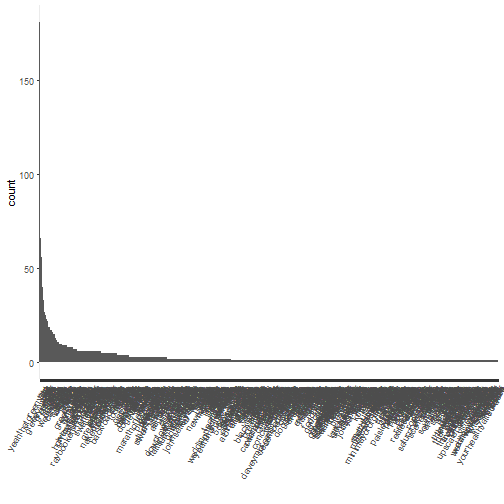
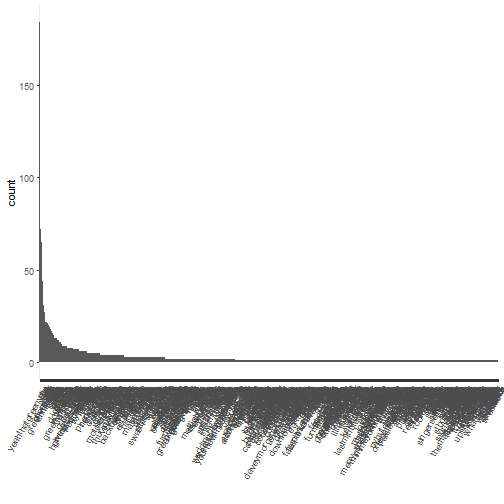
recompile twitter post with cache=FALSE to try to avoid image collision

diff --git a/_posts/2016-12-21-r-twitter.md b/_posts/2016-12-21-r-twitter.md
@@ -59,31 +59,31 @@ head(gvl_twitter_df)
 
 
 {% highlight text %}
-                                                                                                                                            text
-1 RT @TEN_GOP: Hillary voter: set the #Greenville black church on fire and spray painted 'Vote Trump'. \n\nTrump supporters: raised $180K to reÂ…
-2                                                                            Aviation MX Jobs Sheet Metal-LHM-GREENVILLE https://t.co/0B104F2S1f
-3     Why are people from all over the world moving to Greenville, SC? https://t.co/Ck7FLxHiA2 Orion Realty 864-631-2663 https://t.co/SqFbO5rO5M
-4                     @gibbshundred chillin' in the Wisconsin refrigerator #beerforthought #beer @ Greenville, Wisconsin https://t.co/Vz0fey2pgO
-  favorited favoriteCount    replyToSN             created truncated
-1     FALSE             0         <NA> 2016-12-22 22:01:13     FALSE
-2     FALSE             0         <NA> 2016-12-22 22:00:57     FALSE
-3     FALSE             0         <NA> 2016-12-22 22:00:43     FALSE
-4     FALSE             0 GibbsHundred 2016-12-22 22:00:34     FALSE
-  replyToSID                 id replyToUID
-1       <NA> 812055418193186816       <NA>
-2       <NA> 812055350438428672       <NA>
-3       <NA> 812055292322181120       <NA>
-4       <NA> 812055254678245377 2225686310
-                                                                        statusSource
-1 <a href="http://twitter.com/download/iphone" rel="nofollow">Twitter for iPhone</a>
-2                    <a href="http://www.hootsuite.com" rel="nofollow">Hootsuite</a>
-3              <a href="http://www.facebook.com/twitter" rel="nofollow">Facebook</a>
-4                        <a href="http://instagram.com" rel="nofollow">Instagram</a>
-      screenName retweetCount isRetweet retweeted longitude latitude
-1  lisalicious12         2593      TRUE     FALSE      <NA>     <NA>
-2 AviationMXjobs            0     FALSE     FALSE      <NA>     <NA>
-3      kenpujdak            0     FALSE     FALSE      <NA>     <NA>
-4       kev_tosh            0     FALSE     FALSE      <NA>     <NA>
+                                                                                                                                                                   text
+1                                  Can you recommend anyone for this #job? Delivery Driver - https://t.co/DRHtAzXQYO #Transportation #Greenville, NC #Hiring #CareerArc
+2                                                        @marcelllamariee @ashlynmariieee shoulda went to Greenville I would have went and we would have fucked shit up
+3                                                                                          I guess I'll go to Greenville today <ed><U+00A0><U+00BD><ed><U+00B8><U+0098>
+4                          RT @sportsguymarv: In a loss to Cook Co., Brittany Davis from Greenville High scrambled a Triple-Double. 52 12 10. || #A1Skills #GHSA #High<U+0085>
+  favorited favoriteCount       replyToSN             created truncated
+1     FALSE             0            <NA> 2016-12-23 17:55:48     FALSE
+2     FALSE             0 marcelllamariee 2016-12-23 17:54:59     FALSE
+3     FALSE             0            <NA> 2016-12-23 17:54:24     FALSE
+4     FALSE             0            <NA> 2016-12-23 17:53:34     FALSE
+          replyToSID                 id         replyToUID
+1               <NA> 812356044567375872               <NA>
+2 812292443509026816 812355837901553664 777670063751135233
+3               <NA> 812355693948837888               <NA>
+4               <NA> 812355480425263104               <NA>
+                                                                          statusSource
+1                  <a href="http://www.tweetmyjobs.com" rel="nofollow">TweetMyJOBS</a>
+2   <a href="http://twitter.com/download/iphone" rel="nofollow">Twitter for iPhone</a>
+3   <a href="http://twitter.com/download/iphone" rel="nofollow">Twitter for iPhone</a>
+4 <a href="http://twitter.com/download/android" rel="nofollow">Twitter for Android</a>
+     screenName retweetCount isRetweet retweeted   longitude   latitude
+1 tmj_NC_transp            0     FALSE     FALSE -77.3936674 35.6096532
+2  s_danielss16            0     FALSE     FALSE        <NA>       <NA>
+3 __GorgeousNiq            0     FALSE     FALSE        <NA>       <NA>
+4    QuayBrizzy           14      TRUE     FALSE        <NA>       <NA>
  [ reached getOption("max.print") -- omitted 2 rows ]
 {% endhighlight %}
  
@@ -106,23 +106,28 @@ print(gvl_twitter_unique %>% select(text))
 
 
 {% highlight text %}
-                                                                                                                                           text
-1                                                                           Aviation MX Jobs Sheet Metal-LHM-GREENVILLE https://t.co/0B104F2S1f
-2    Why are people from all over the world moving to Greenville, SC? https://t.co/Ck7FLxHiA2 Orion Realty 864-631-2663 https://t.co/SqFbO5rO5M
-3                    @gibbshundred chillin' in the Wisconsin refrigerator #beerforthought #beer @ Greenville, Wisconsin https://t.co/Vz0fey2pgO
-4                         Greenville, NC 5:00 PM Temp: 57.8ÂºF Dew: 41.3ÂºF Pressure: 1019.4mb Rain: 0.00 in #encwx #ncwx https://t.co/TRgZS3ZJmp
-5      Bon Jovi's #ThisHouseIsNotForSaleTour kicks off at @BSWArena Greenville February 8! Tix: https://t.co/LFkpYxEIQ0 https://t.co/PLrIWhfk8J
-6                                                                                  The Greenville mall lines are equivalent to Carowinds lines.
-7                                                                                              #flowers in greenville sc turbo tax for realtors
-8  I think them upstate folk accent more country than Sumter we aren't that bad them damn Greenville area folks country as a couch on the porch
-9                         @TheBuns1194 come out retirement and transfer back to good ol greenville lol <ed><U+00A0><U+00BD><ed><U+00B8><U+0082>
-10                    Can you recommend anyone for this #job in #Greenville, NC? https://t.co/j25SnMwtTE #SONIC #Hospitality #Hiring #CareerArc
-11          We're #hiring! Click to apply: Customer Service- Retail Sales - https://t.co/q7rFALqoT5 #Job #CustomerService #Greenville, NC #Jobs
-12                         Can you recommend anyone for this #job? Rehab Director - https://t.co/gzxnns476V #Healthcare #Greenville, SC #Hiring
-13                                                                                         Greenville, SC playing cards https://t.co/Yb0Yz40MaY
-14                                                                                                             Oh, yeah I'm back in Greenville.
-15                  Want to work in #Greenville, SC? View our latest opening: https://t.co/EI2orG2G0N #Job #Accounting #Jobs #Hiring #CareerArc
-16                       Want to work in #Greenville, SC? View our latest opening: https://t.co/MScE6OeHjh #Job #Sales #Jobs #Hiring #CareerArc
+                                                                                                                                                                    text
+1                                   Can you recommend anyone for this #job? Delivery Driver - https://t.co/DRHtAzXQYO #Transportation #Greenville, NC #Hiring #CareerArc
+2                                                         @marcelllamariee @ashlynmariieee shoulda went to Greenville I would have went and we would have fucked shit up
+3                                                                                           I guess I'll go to Greenville today <ed><U+00A0><U+00BD><ed><U+00B8><U+0098>
+4  @Uber_Support We need one of these in Greenville SC!!!  Where are you guys?\nWhen are you opening a Greenlight station here? <ed><U+00A0><U+00BD><ed><U+00B8><U+008A>
+5                                                                                                                Greenville Police Beat 12-23-16 https://t.co/Lt4rbams5z
+6                                                                                                                        #market risk solutions greenville cancer center
+7                                                      Can you recommend anyone for this #job in #Greenville, SC? https://t.co/Xt7hznlGgA #Purchasing #Hiring #CareerArc
+8                                                            Check out my #listing in #Liberty #SC  #realestate #realtor https://t.co/CuzFTjp5ge https://t.co/sD1VypKlTu
+9                                     Join the Aerotek team! See our latest #job opening here: https://t.co/gZ6jEIqOyN #Manufacturing #Greenville, SC #Hiring #CareerArc
+10                                                        @Sie_SoSweet I'm driving to greenville and I don't feel like stopping <ed><U+00A0><U+00BD><ed><U+00B8><U+0082>
+11                            Here's a little behind the scenes peek of 2017's 1st Off the Grid Greenville, A Visual Guide to Local Favorites... https://t.co/M33IWBDAZe
+12                                                                                       #greenville electric company best western plus muskoka inn huntsville on canada
+13                                                 Registered Nurse - $5,000 Sign On Bonus - Vidant Home Hospice - 925571 in Greenville, NC https://t.co/xONI21XSDq #job
+14                                                              Apply to this job: Population Health Analyst Job - 926645 in Greenville, NC https://t.co/6J5IeqNak8 #job
+15                                                   Greenville may be the TU tonight . <ed><U+00A0><U+00BE><ed><U+00B4><U+0094><ed><U+00A0><U+00BE><ed><U+00B4><U+0094>
+16                                              I had the privilege of meeting Lottie Gibson back when James Akers Jr ran for Greenville County<U+0085> https://t.co/UzsRoWMNdr
+17                                             Done been to Greenville 3 times this week<ed><U+00A0><U+00BD><ed><U+00B8><U+00BC><ed><U+00A0><U+00BD><ed><U+00B8><U+0082>
+18                                                                                                                   Greenville <ed><U+00A0><U+00BD><ed><U+00B3><U+008D>
+19                                                                                       What nail place in Greenville is the best bc every one I go to effs up my nails
+20                                                                                                 I'm at @Walmart Supercenter in Greenville, TX https://t.co/uYSIZPA4VE
+21    Goodbye Greenville, take off in 20, New York in an hour! <ed><U+00A0><U+00BD><ed><U+00BB><U+00A9> #TakeOff #NewYorkCity #BigAppleChristmas https://t.co/upN8kaGONK
 {% endhighlight %}
  
 The thing to notice here is that there are several different Greenvilles, so this makes analysis of the local area pretty hard. Many of the tweets can be about Greenville, NC or SC. In this particular dataset, there was even a Greenville Road in California (where there was a car fire). Rather than play a filtering game, it may be better to apply some knowledge specific to the area. For instance, local tweets will often be tagged with `#yeahThatgreenville`. So we will search again for the `#yeahthatgreenville` hashtag (and add a few more tweets as well). This time, we'll keep retweets:
@@ -186,13 +191,13 @@ head(tweet_words)
 
 
 {% highlight text %}
-                    id          word
-1   812052233693097990            rt
-1.1 812052233693097990 greenville_sc
-1.2 812052233693097990           not
-1.3 812052233693097990             a
-1.4 812052233693097990           bad
-1.5 812052233693097990           way
+                    id      word
+1   812352595159355392       the
+1.1 812352595159355392      wall
+1.2 812352595159355392      gods
+1.3 812352595159355392 mountains
+1.4 812352595159355392       amp
+1.5 812352595159355392    cities
 {% endhighlight %}
  
 I used the `select` function from `dplyr` to keep only the `id` and `text` fields. The `unnest_tokens()` functions creates a long dataset with a single word replacing the text. All the other fields remain unchanged. We can now easily create a bar chart of the words used the most:
@@ -227,7 +232,7 @@ head(stop_words)
 
 
 {% highlight text %}
-# A tibble: 6 Ã— 2
+# A tibble: 6 × 2
        word lexicon
       <chr>   <chr>
 1         a   SMART
@@ -258,13 +263,13 @@ head(tweet_words_interesting)
 
 
 {% highlight text %}
-                  id       word
-1 811749098273538048    stretch
-2 811749098273538048  volunteer
-3 811749098273538048 strengthen
-4 811749098273538048  community
-5 811567485363294208  community
-6 811749098273538048   becausey
+                  id word
+1 812352595159355392 wall
+2 812352159916367873 wall
+3 812351889681633280 wall
+4 812352595159355392 gods
+5 812352159916367873 gods
+6 812351889681633280 gods
 {% endhighlight %}
  
 The `anti_join` function is probably not familiar to most data scientists or statisticians. It is the opposite of a merge in a sense. Basically, the command above merges the `tweet_words` and `my_stop_words` data frames, and then _removes_ the rows that came from the `my_stop_words` dataset, leaving only the rows in `tweet_words` (the `id` and `word`) that does not match with something from `my_stop_words`. This is desirable because our `my_stop_words` dataset contains words we _do not_ want to analyze.
@@ -297,7 +302,7 @@ head(bing_lex)
 
 
 {% highlight text %}
-# A tibble: 6 Ã— 2
+# A tibble: 6 × 2
         word sentiment
        <chr>     <chr>
 1    2-faced  negative
@@ -320,13 +325,13 @@ head(gvl_sentiment)
 
 
 {% highlight text %}
-                  id       word sentiment
-1 811749098273538048    stretch      <NA>
-2 811749098273538048  volunteer      <NA>
-3 811749098273538048 strengthen      <NA>
-4 811749098273538048  community      <NA>
-5 811567485363294208  community      <NA>
-6 811749098273538048   becausey      <NA>
+                  id word sentiment
+1 812352595159355392 wall      <NA>
+2 812352159916367873 wall      <NA>
+3 812351889681633280 wall      <NA>
+4 812352595159355392 gods      <NA>
+5 812352159916367873 gods      <NA>
+6 812351889681633280 gods      <NA>
 {% endhighlight %}
  
 Once you get to this point, sentiment analysis can start fairly easily:
@@ -339,11 +344,11 @@ gvl_sentiment %>% filter(!is.na(sentiment)) %>% group_by(sentiment) %>% summaris
 
 
 {% highlight text %}
-# A tibble: 2 Ã— 2
+# A tibble: 2 × 2
   sentiment     n
       <chr> <int>
-1  negative    14
-2  positive    78
+1  negative    19
+2  positive    83
 {% endhighlight %}
  
 There are many more positive words than negative words, so the mood tilts positive in our crude analysis. We can also group by tweet, and see whether there more more positive or negative tweets:
@@ -359,15 +364,15 @@ gvl_sent_anly2
 
 
 {% highlight text %}
-# A tibble: 3 Ã— 2
+# A tibble: 3 × 2
   sentiment        n
       <chr>    <dbl>
-1  negative 1.000000
-2  positive 1.344828
-3      <NA> 6.733668
+1  negative 1.055556
+2  positive 1.338710
+3      <NA> 6.040404
 {% endhighlight %}
  
-On average, there are 1.3448276 positive words per tweet and 1 negative words per tweet, if you accept the assumptions of the above analysis.
+On average, there are 1.3387097 positive words per tweet and 1.0555556 negative words per tweet, if you accept the assumptions of the above analysis.
  
 There is, of course, a lot more that can be done, but this will get you started. For some more sophisticated ideas you can check [Julia Silge's analysis of Reddit data](http://juliasilge.com/blog/Reddit-Responds/), for instance. Another kind of analysis looking at sentiment and emotional content can be found [here](https://mran.microsoft.com/posts/twitter.html) (with the caveat that it uses the predecessor to `dplyr` and thus runs somewhat less efficiently). Finally, it would probably be useful to supplement the above sentiment data frames with situation-specific sentiment analysis, such as making `goallllllll` in the above a positive word.
  
